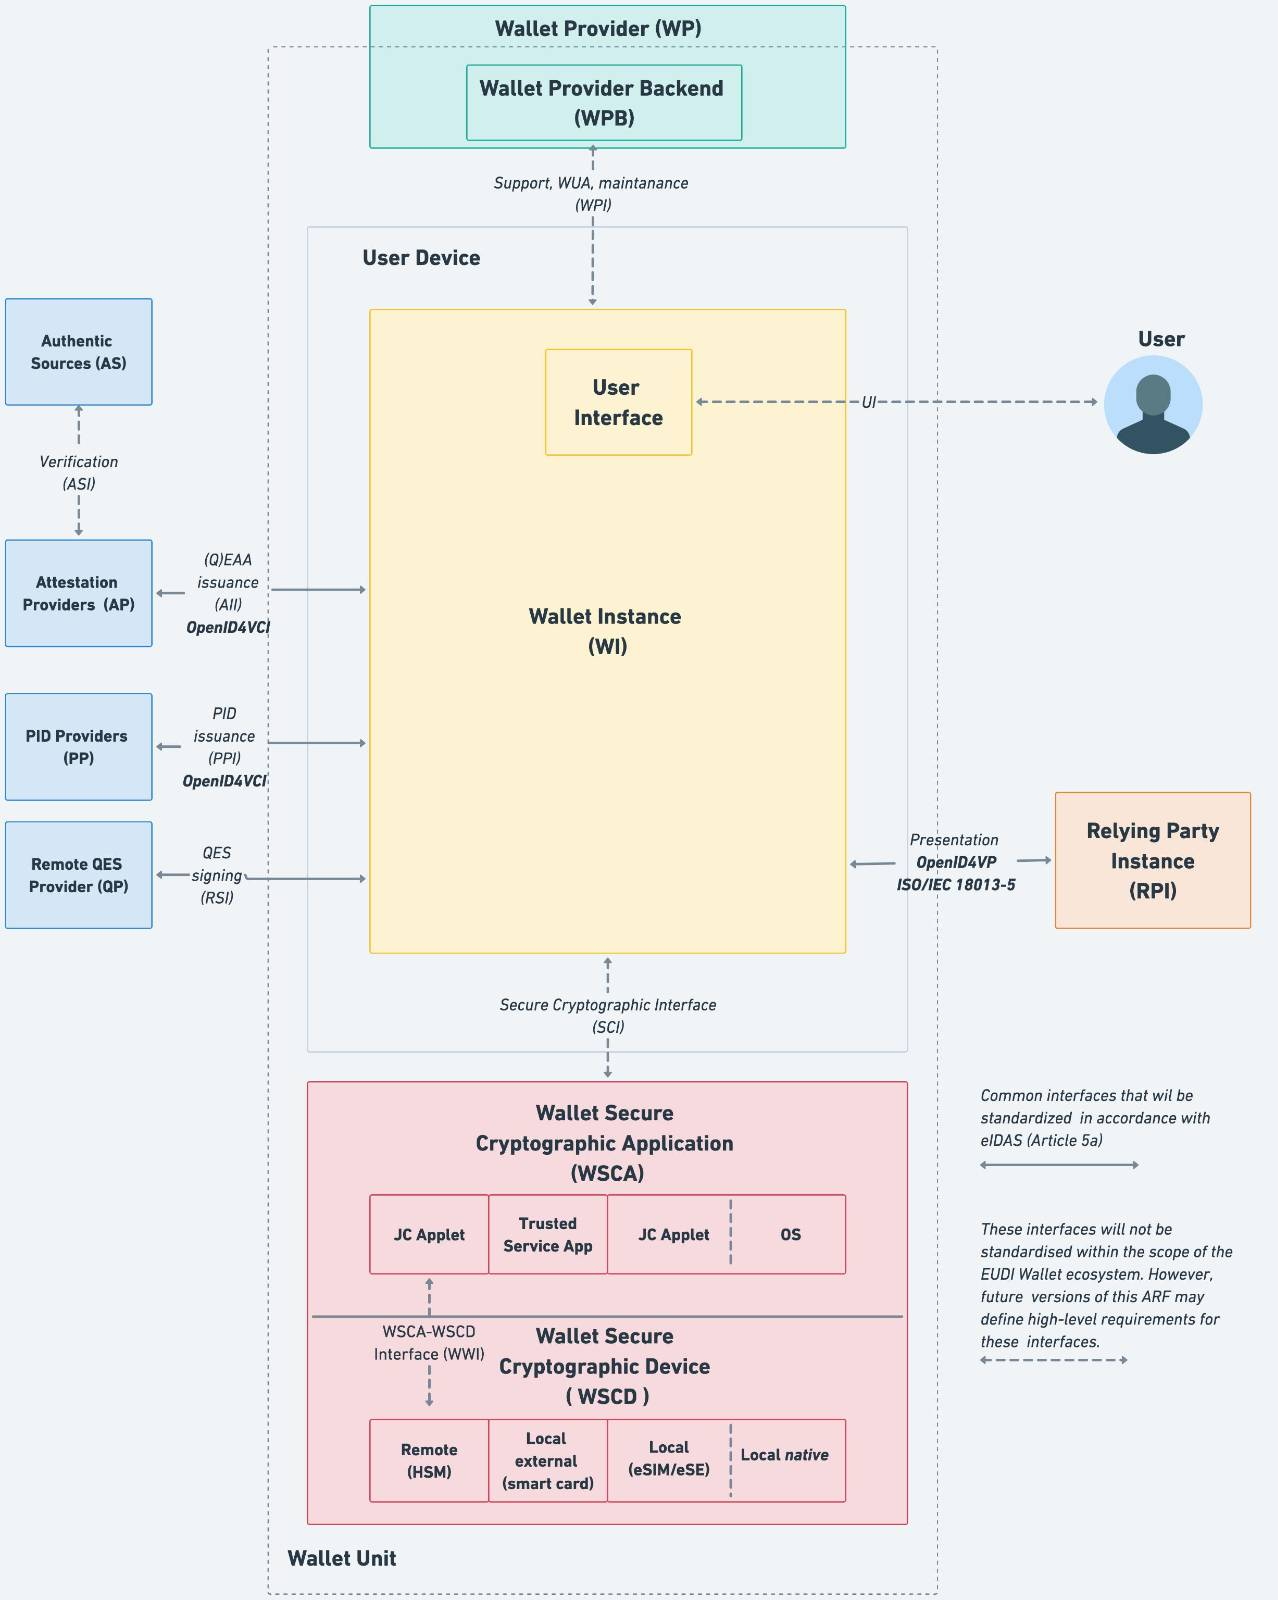
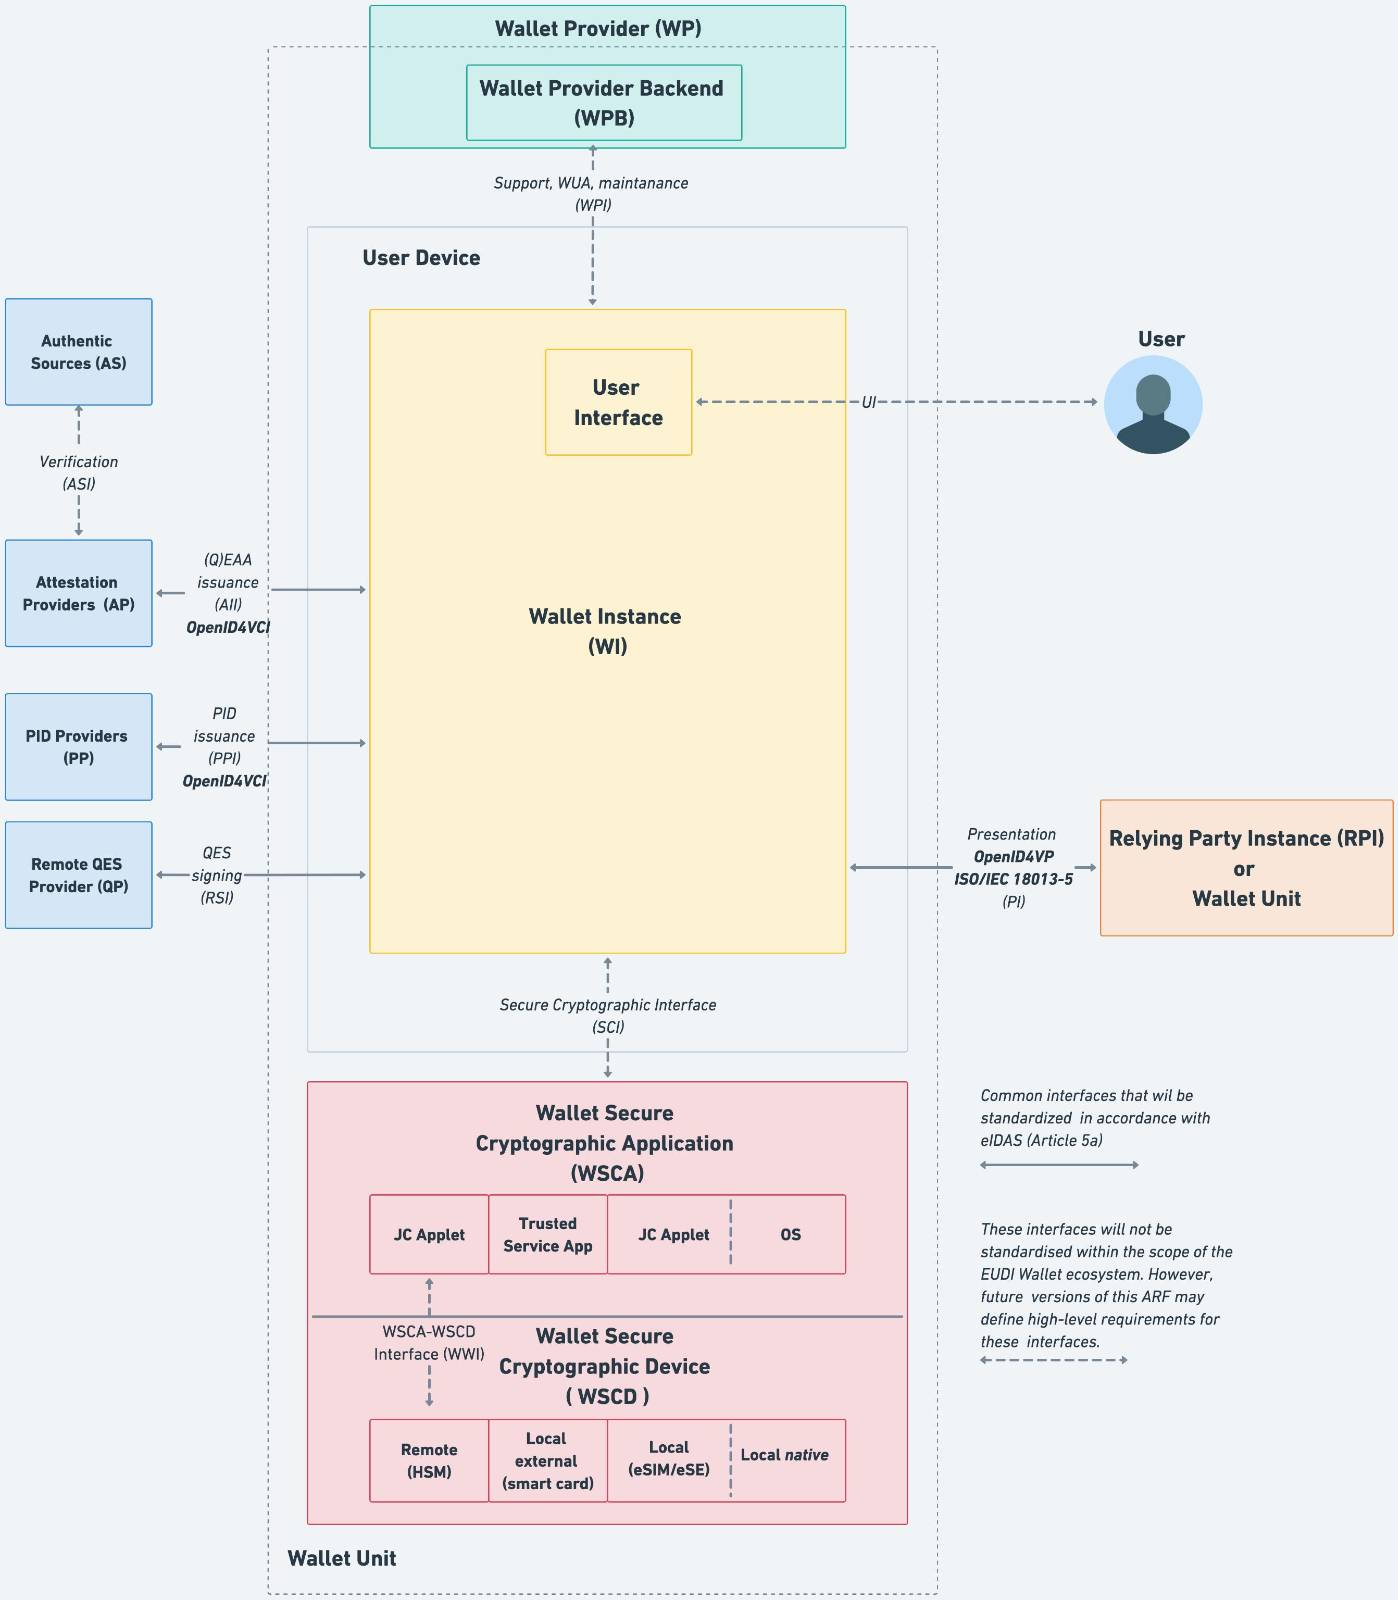
Solving #373

diff --git a/docs/arf.md b/docs/arf.md
@@ -320,13 +320,9 @@ Figure 2: EUDI Wallet ecosystem reference architecture
 The following have been identified as the core components of a Wallet Unit:
 
 - **Wallet Instance (WI)**: The app or application installed on a User device, which is an instance of a Wallet Solution and belongs to and is controlled by a User. This component implements the core business logic and interfaces as depicted in Figure 2. It directly interacts with the WSCA/WSCD to securely manage cryptographic assets and execute cryptographic functions, ensuring a high level of assurance for authentication.
-
 - **User device (UD)**: A User device serves as the host for the Wallet Instance. For Wallet Instances used by a natural person, the User Device will typically be a mobile device. For Wallet Instances used by a legal person, the User device may also be a mobile device, but could also be a cloud server, for example. The minimum hardware and software requirements for the User device will be determined by the Wallet Provider.
-
 - **Wallet Secure Cryptographic Device (WSCD):** This is trusted hardware providing a secure environment and storage for cryptographic assets (such as keys) and for running the WSCA. This includes a keystore, but also the environment where the security-critical functions are executed. The WSCD is tamper-proof and duplication-proof. One WSCD may be included in multiple Wallet Units, e.g. in case of a remote HSM. The WSCD consists of two parts: the WSCD hardware covers the hardware issued by the WSCD vendor and the WSCD firmware covers security-related software, such as an operating system and cryptographic libraries provided by the WSCD vendor. Figure 2 shows four different possible security architectures for the WSCD (for more details see [Section 4.5](#45-wscd-architecture-types)): <ul><li>a remote WSCD, which is typically a HSM operated by the Wallet Provider,</li><li>a local external WSCD, which is typically a smart card issued to the User specifically for this purpose,</li><li>a local internal WSCD, which may be, for instance, a UICC, an e-SIM, a SAM, or an embedded Secure Element,</li><li>a local native WSCD, which is also embedded in the User device but which is accessed via an API exposed by the OS.</li></ul> 
-  
 - **Wallet Secure Cryptographic Application (WSCA):** This is a secure application running on (or linked to) and utilizing the WSCD. A WSCA manages sensitive assets, primarily cryptographic keys, and interfaces directly with the Wallet Instance. Regarding the party responsible for delivering the WSCA, there are two options, depending on the security architecture of the WSCD. For remote WSCDs (HSMs), local external WSCDs (dedicated smart cards or tokens), and local internal WSCDs (UICC, eSIM/SAM, embedded SE), the WSCA will be delivered by the Wallet Provider. For native local WSCDs, the WSCA is part of the OS.
-
 - **Wallet Provider backend (WPB**): The Wallet Provider backend offers Users support with their Wallet Units, performs essential maintenance, and issues Wallet Unit Attestations through the Wallet Provider Interface (WPI).
 
 #### 4.3.3 Wallet Unit interfaces and protocols
@@ -335,7 +331,7 @@ Figure 2 shows the following interfaces between components of a Wallet Unit, or 
 
 - The **Wallet Provider Interface (WPI)** is used by the Wallet Instance to communicate with the Wallet Provider to request and issue the Wallet Unit Attestation, as well as to provide support to the User and collect aggregated and user-consented information in a privacy-preserving manner to provision the Wallet Unit, in compliance with applicable legislation. Because the Wallet Provider is responsible for both sides of this interface, it will not be standardized in the scope of the EUDI Wallet ecosystem.
 - The **User Interface (UI)** is the point of interaction and communication between the User and the Wallet Instance. This interface will not be standardized in the scope of the EUDI Wallet ecosystem.
-- The **Presentation Interface (PI)** enables Relying Parties to securely request and receive PIDs, QEAAs, PuB-EAAs and EAAs from Wallet Units. This interface accommodates both remote and proximity interactions. For remote presentation flows, as detailed in [Section 4.4.3](#443-remote-presentation-flows), the Wallet Instance implements the OpenID for Verifiable Presentation protocol [OpenID4VP] in combination with the [W3C Digital Credentials API]. In contrast, for the proximity presentation flow, this interface adheres to the [ISO/IEC 18013-5] standard, see [Section 4.4.2](#442-proximity-presentation-flows).
+- The **Presentation Interface (PI)** enables Relying Parties to securely request and receive PIDs, QEAAs, PuB-EAAs and EAAs from Wallet Units. This interface accommodates both remote and proximity interactions. For remote presentation flows, as detailed in [Section 4.4.3](#443-remote-presentation-flows), the Wallet Instance implements the OpenID for Verifiable Presentation protocol [OpenID4VP] in combination with the [W3C Digital Credentials API]. In contrast, for the proximity presentation flow, this interface adheres to the [ISO/IEC 18013-5] standard, see [Section 4.4.2](#442-proximity-presentation-flows). The same interface can also be used by another Wallet Unit, see [Section 6.6.4](#664-pid-or-attestation-presentation-to-another-wallet-unit).
 - The **Secure Cryptographic Interface (SCI)** enables the Wallet Instance to communicate with the Wallet Secure Cryptographic Application (WSCA). This interface is specifically designed for managing cryptographic assets and executing cryptographic functions. In case the WSCA is delivered by the Wallet Provider, the Wallet Provider is responsible for both sides of this interface, and hence standardisation is not needed within the scope of the EUDI Wallet ecosystem. In case the WSCA is delivered by the provider of the WSCD, this interface will comply with an existing specification that is not specifically designed for the EUDI Wallet ecosystem. Rather, each type of WSCA/WSCD will expose a provider-defined interface to the Wallet Instance. For example, in case the WSCD is a secure element, the [Implementing Act on Integrity and Core Functionality](https://eur-lex.europa.eu/legal-content/EN/TXT/HTML/?uri=OJ:L_202402979#anx_I) requires support for the GlobalPlatform [GP OMAPI] interface specification (or an equivalent one).
   
 To be able to support different types of WSCA/WSCD, Wallet Instances may need to be able to handle multiple flavours of this interface.
@@ -806,11 +802,8 @@ De-registration involves revocation of all valid Relying Party Instance access c
 [Section 4.6.3](#463-wallet-unit) above presented the lifecycle of a Wallet Unit:
 
 1. The Wallet Instance that is part of the Wallet Unit is installed on a device by a User. The required trust relationships for installation are discussed in [Section 6.5.2](#652-wallet-instance-installation) below.
-
 2. Next, the Wallet Unit is activated by the Wallet Provider and becomes operational. The goals and required trust relationships for activation are discussed in [Section 6.5.3](#653-wallet-unit-activation).
-
 3. Once in the **Operational** or **Valid** state, the Wallet Unit is managed by the User and the Wallet Provider. This management includes at least revoking the Wallet Unit when necessary. This is discussed in [Section 6.5.4](#654-wallet-unit-management). Management will also include regular updates of the Wallet Instance application to ensure its continued security and functionality. However, this is not further defined in this chapter.
-
 4. The User may de-install the Wallet Instance; see [Section 6.5.5](#655-wallet-instance-de-installation).
 
 #### 6.5.2 Wallet Instance installation
@@ -822,7 +815,6 @@ The lifecycle of a Wallet Unit starts when a User decides to install an Wallet I
 When downloading and installing the Wallet Instance, the following trust relationships are established:
 
 1. On behalf of the User, the OS of the User's device and the relevant app store verify that the Wallet Instance (i.e., the application the User is installing) is genuine and authentic and does not contain any malware or other threats.
-
 2. The User verifies that they can obtain the PID(s) they need in an instance of this Wallet Solution. If the relevant PID Provider does not support the Wallet Solution, the User would not be able to use the Wallet Unit for obtaining those PID(s).
 
 The next two sections discuss these trust relationships.
